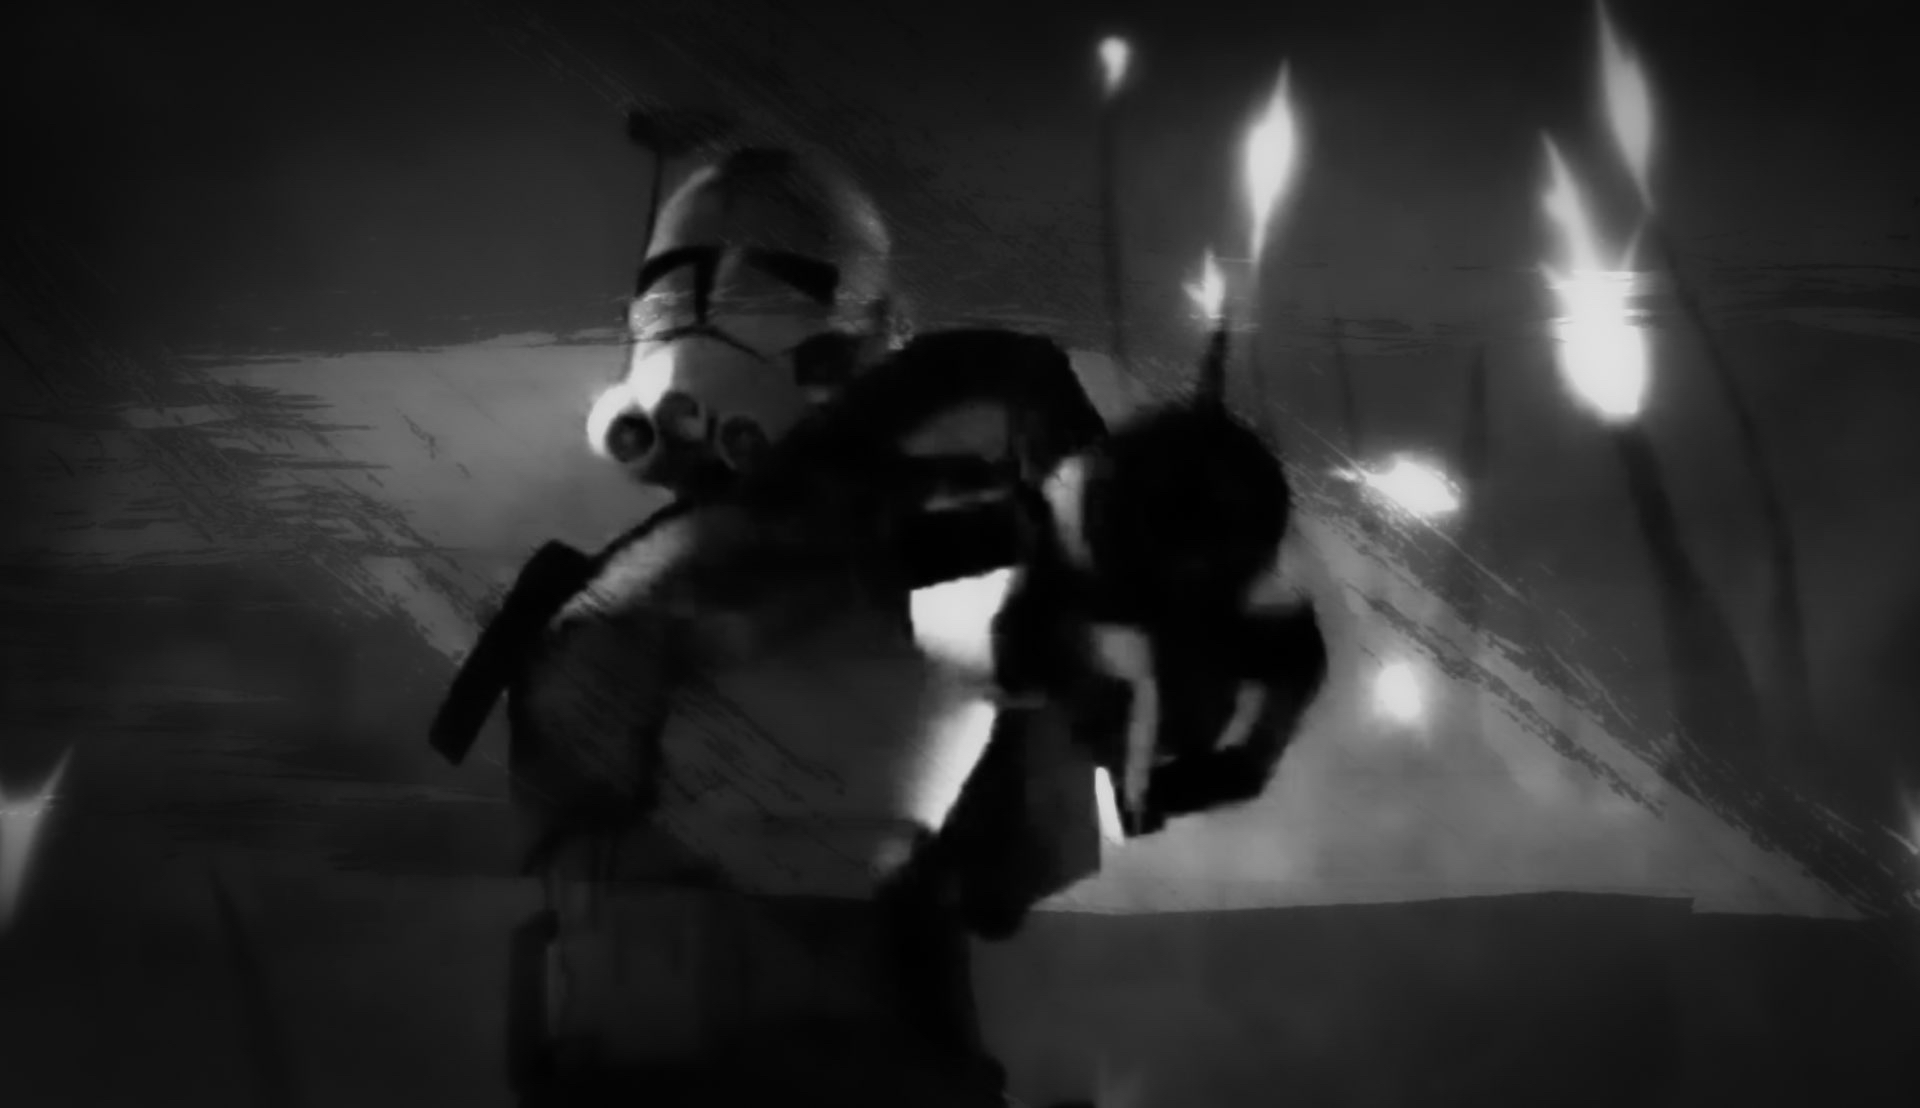
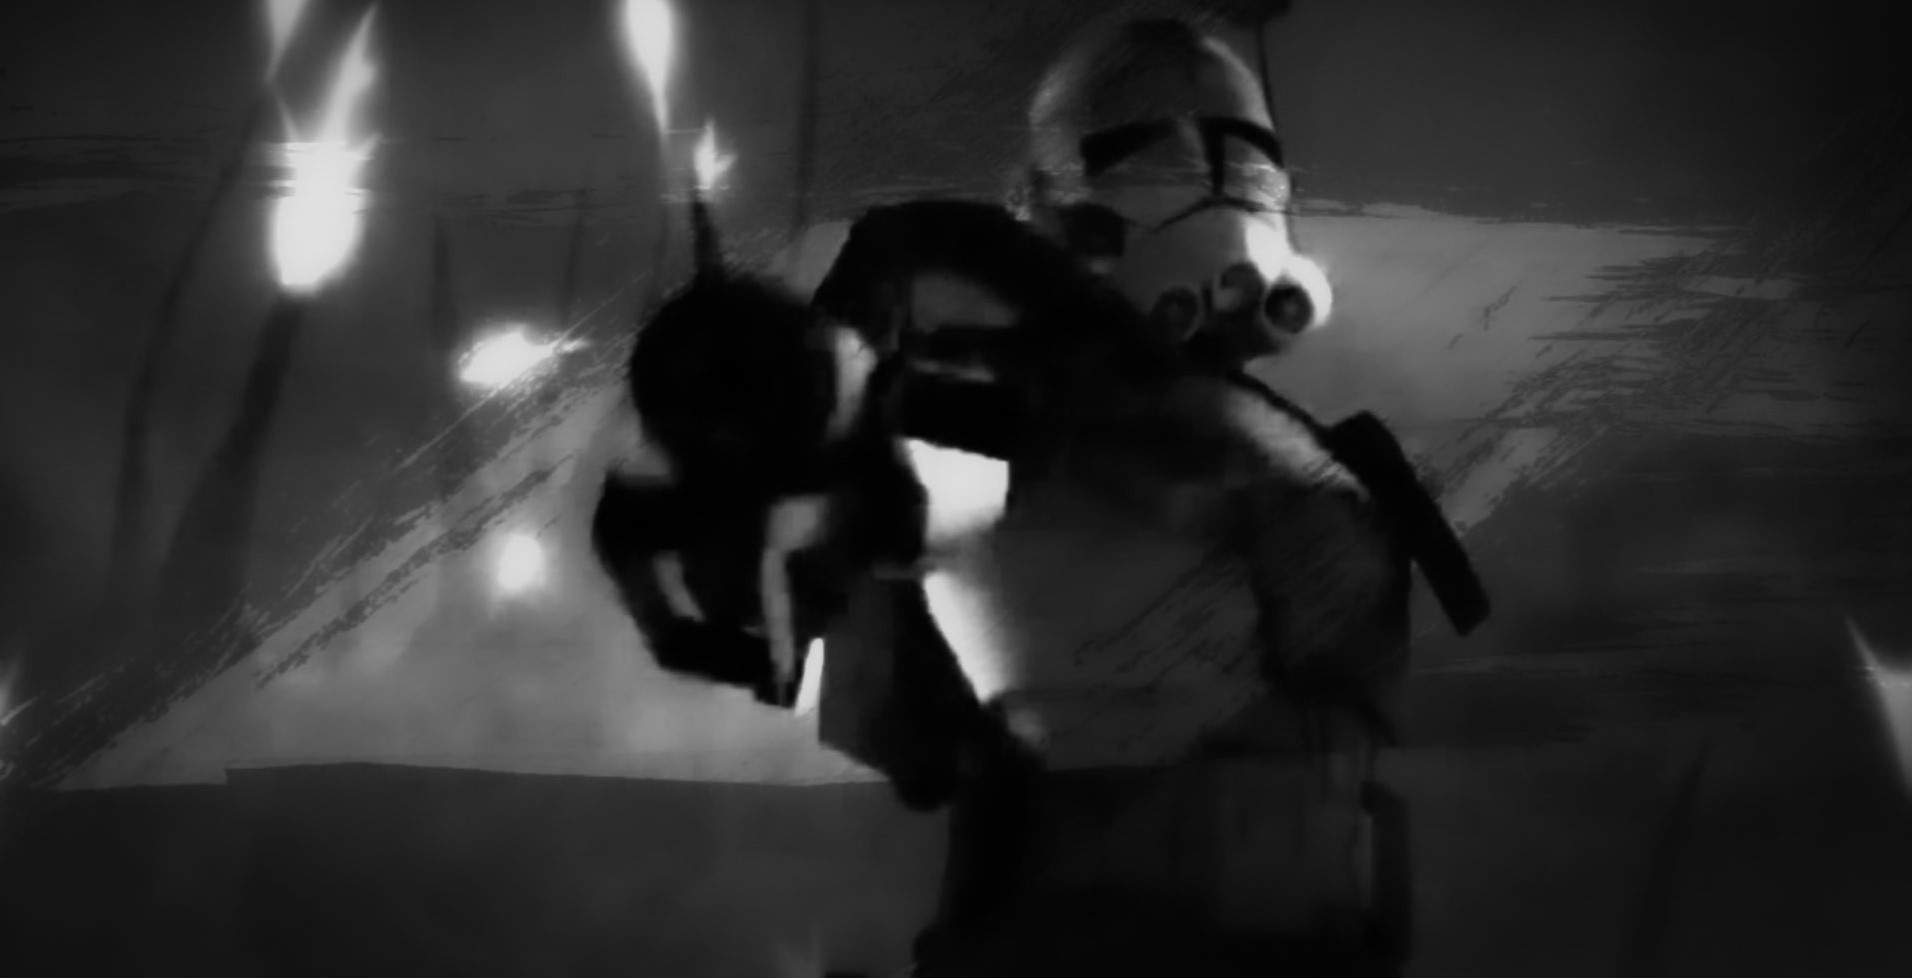
page movie

diff --git a/src/components/hobbie/movie.vue b/src/components/hobbie/movie.vue
@@ -1,0 +1,142 @@
+<template>
+ <div>
+    <div id="movie">
+     <b-container>
+       <b-row>
+         <b-col cols="12" sm="5" class="intro my-5">
+           <h1 class="my-5">Cinema</h1>
+           <div class="my-5"  v-for="info in donnees" :key="info.id">
+             <div class="my-5">
+                <b-row class="ml-1">
+                    <p class="cat2" v-for="cat in info.cat" :key="cat.id">{{cat.name}}</p>
+                </b-row>
+              </div>
+           </div>
+         </b-col>
+       </b-row>
+     </b-container>
+   </div>
+   <b-container v-for="info in donnees" :key="info.id" class="my-5">
+     <b-row>
+          <b-col cols="12" sm="6">
+          <h3>Brief</h3>
+          <p>{{info.brief}}</p>
+       </b-col>
+     </b-row>
+
+
+    <!-- <div class="carrousel">
+       <img src="../../assets/mmi-carrousel-1.jpg" style="width:100%" class="mySlides">
+        
+        <img src="../../assets/mmi-carrousel-2.jpg" style="width:100%" class="mySlides">
+        
+        <img src="../../assets/mmi-carrousel-3.jpg" style="width:100%" class="mySlides">
+
+        <img src="../../assets/mmi-carrousel-4.jpg" style="width:100%" class="mySlides">
+     </div> -->
+    
+    <div id="movie2">
+
+      <b-row class="my-5">
+        <b-col cols="12" sm="7">
+          <h3>Clone Wars - After Effect</h3>
+          <img src="../../assets/clones.jpg" alt="Project Clone Wars" class="img-fluid my-4">
+          <p v-for="ref in info.reflection" :key="ref.id">{{ref.text}}</p>
+          <div class="my-5">
+            <a href="#" class="btn2">Story-Board</a>
+            <a href="#" class="btn2"><i class="fas fa-play"></i></a>
+          </div>
+        </b-col>
+      </b-row>
+
+      <b-row class="my-5">
+        <b-col cols="12" sm="7">
+          <h3>Inktober</h3>
+          <img src="../../assets/clones.jpg" alt="Project Clone Wars" class="img-fluid my-4">
+          <p v-for="ref in info.reflection2" :key="ref.id">{{ref.text}}</p>
+          <div class="my-5">
+            <a href="https://www.instagram.com/cecile_gaultier/" class="btn2">Discover</a>
+            <a href="https://inktober.com/rules" class="btn2">Prompt List</a>
+          </div>
+        </b-col>
+      </b-row>
+      
+           
+    </div>
+
+   </b-container>
+
+   <footer class="text-center mt-5">
+    <p><a href="#">Mentions légales</a> & <a href="#">Crédits</a>  | © 2020 cecile-gaultier.fr</p>
+  </footer>
+
+ </div>
+</template>
+
+<script>
+export default {
+  name: 'Movie',
+  data () {
+   return {
+      donnees :[]
+    }
+  },
+
+  created(){
+        //lecture json directement avec Axios (json dans static)
+        axios.get('static/movie.json')
+        .then(function(response){
+        //succès réponse
+        console.log(response.data);
+        this.donnees = response.data;
+        }.bind(this)) //Zone isolée -> bind pour closure
+        .catch(function(error){
+        //erreur requete
+        console.log(error)
+        });
+
+        
+        var slideIndex = 0;
+        carousel();
+
+        function carousel() {
+          var i;
+          var x = document.getElementsByClassName("mySlides");
+          for (i = 0; i < x.length; i++) {
+            x[i].style.display = "none";
+          }
+          slideIndex++;
+          if (slideIndex > x.length) {slideIndex = 1}
+          x[slideIndex-1].style.display = "block";
+          setTimeout(carousel, 4000); // Change image every 4 seconds
+        }
+  },
+
+}
+</script>
+
+<!-- Add "scoped" attribute to limit CSS to this component only -->
+<style scoped>
+
+#movie{
+  background-image: url("../../assets/movie2-front.jpg");
+  content: "";
+  background-repeat: no-repeat;
+  margin-left: .5rem;
+  margin: 0;
+  background-position-y: top;
+}
+
+#movie2 h3{
+  border-left: #af1f28 3px solid;
+  padding-left: .5rem;
+  margin-bottom: 3rem;
+  font-size: 2.5rem;
+  margin-top: 10rem;
+}
+
+.carrousel{
+    margin-top: 10rem;
+}
+
+</style>

diff --git a/index.html b/index.html
@@ -6,7 +6,12 @@
     <title>Portfolio</title>
 
        <!-- Font-awesome -->            
-       <link rel="stylesheet" href="https://cdnjs.cloudflare.com/ajax/libs/font-awesome/4.7.0/css/font-awesome.css">
+       <link
+          rel="stylesheet"
+          href="https://use.fontawesome.com/releases/v5.13.0/css/all.css"
+          integrity="sha384-Bfad6CLCknfcloXFOyFnlgtENryhrpZCe29RTifKEixXQZ38WheV+i/6YWSzkz3V"
+          crossorigin="anonymous"
+        />
 
        <!-- Lib Axios pour Ajax -->
        <script src="https://unpkg.com/axios/dist/axios.min.js"></script>

diff --git a/src/router/index.js b/src/router/index.js
@@ -13,6 +13,8 @@ import PRoom from '@/components/project/PRoom'
 import Fly from '@/components/project/Fly'
 
 import Hobbies from '@/components/Hobbies'
+import Movie from '@/components/hobbie/Movie'
+
 import Contact from '@/components/Contact'
 
 
@@ -36,6 +38,7 @@ export default new Router({
 
 
     { path: '/hobbies',     name: 'Hobbies',    component: Hobbies},
+    { path: '/movie',       name: 'Movie',      component: Movie},
 
 
     { path: '/contact',     name: 'Contact',    component: Contact},

diff --git a/src/components/Hobbies.vue b/src/components/Hobbies.vue
@@ -65,7 +65,7 @@
                   Movies are one of my main passions. They allowed the viewers to discover a new universe and still, they ask questions about our society nowadays.
                 </p>
                 <div class="my-5">
-                  <router-link to="/coppola">
+                  <router-link to="/movie">
                     <a href="#" class="btn2">Discover</a>
                   </router-link>
                 </div>
